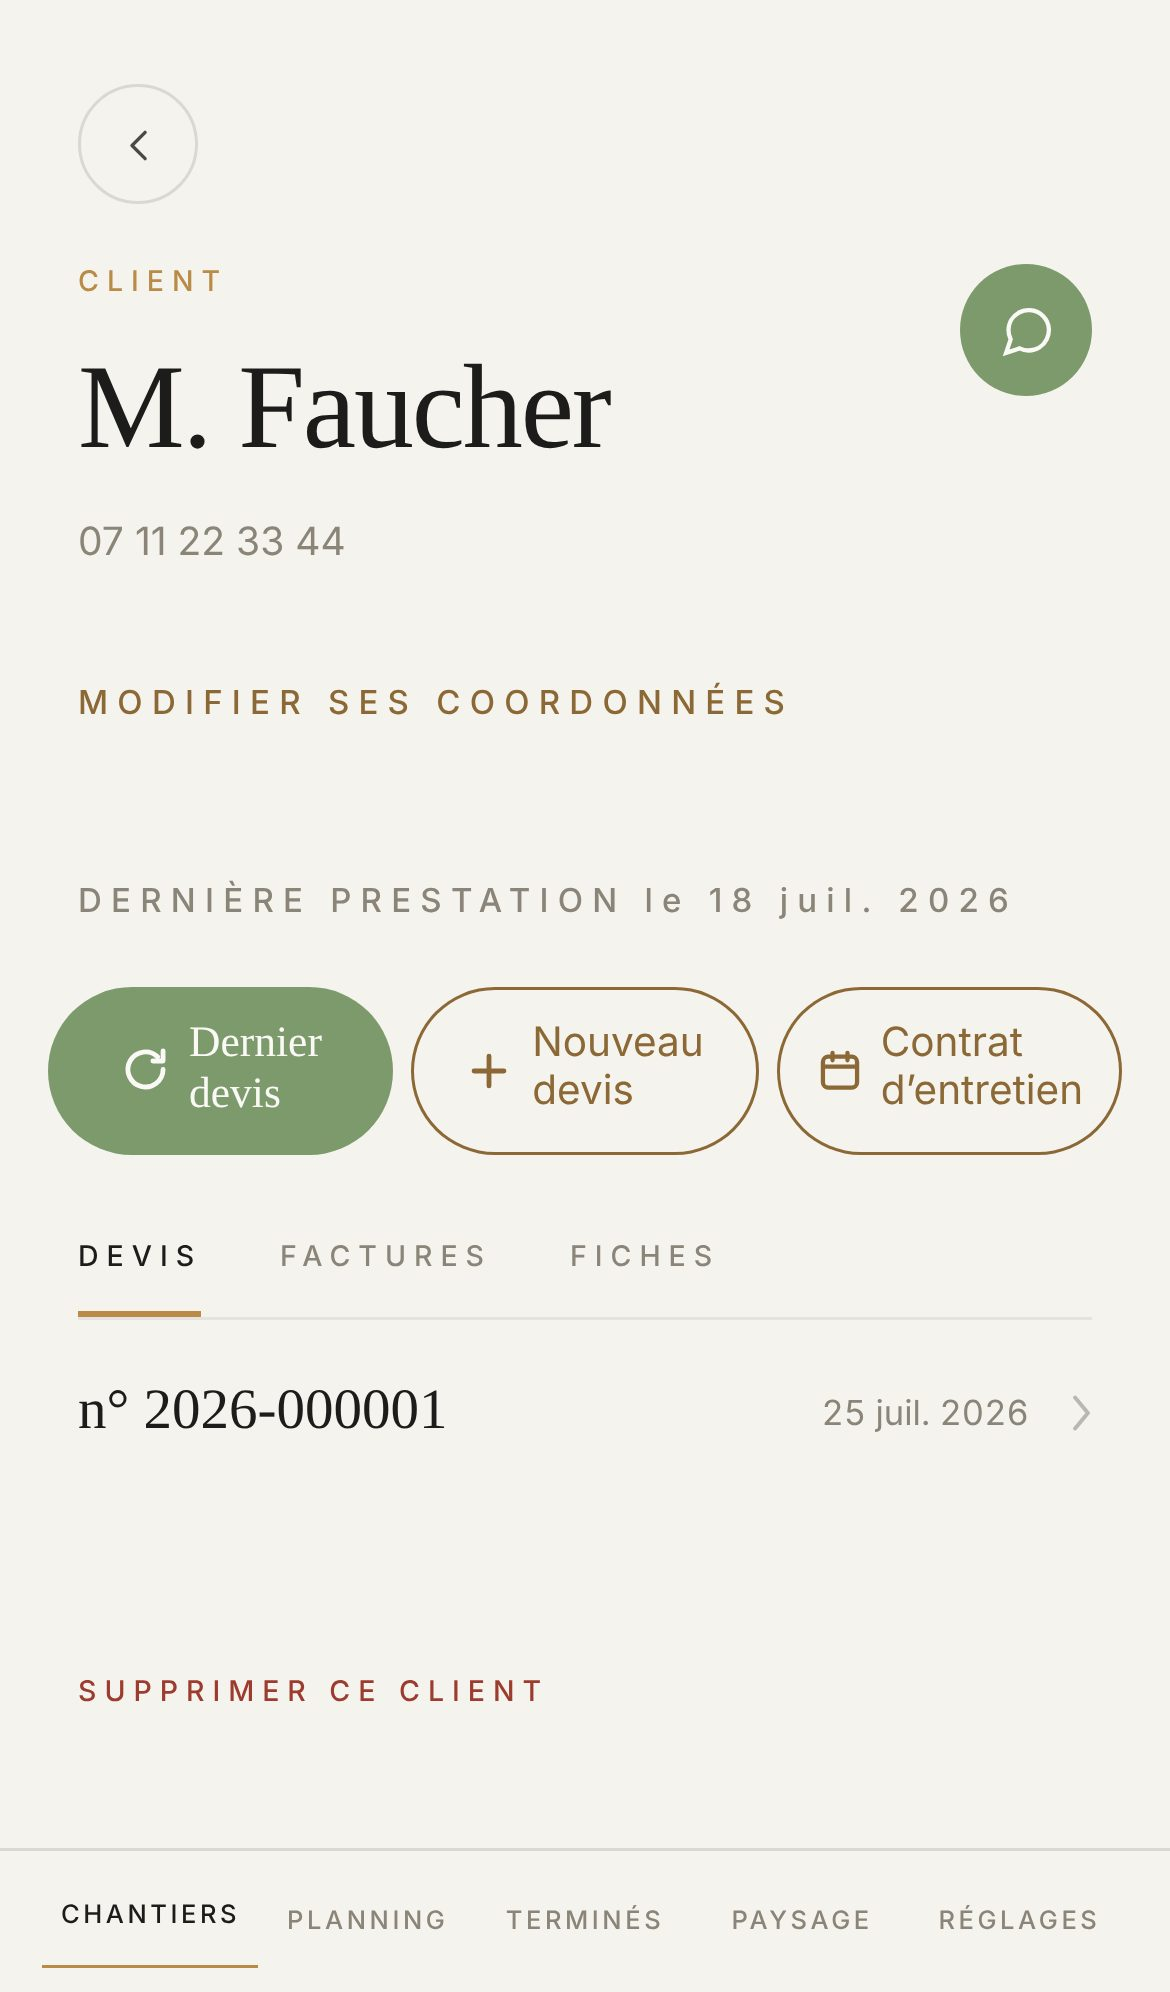
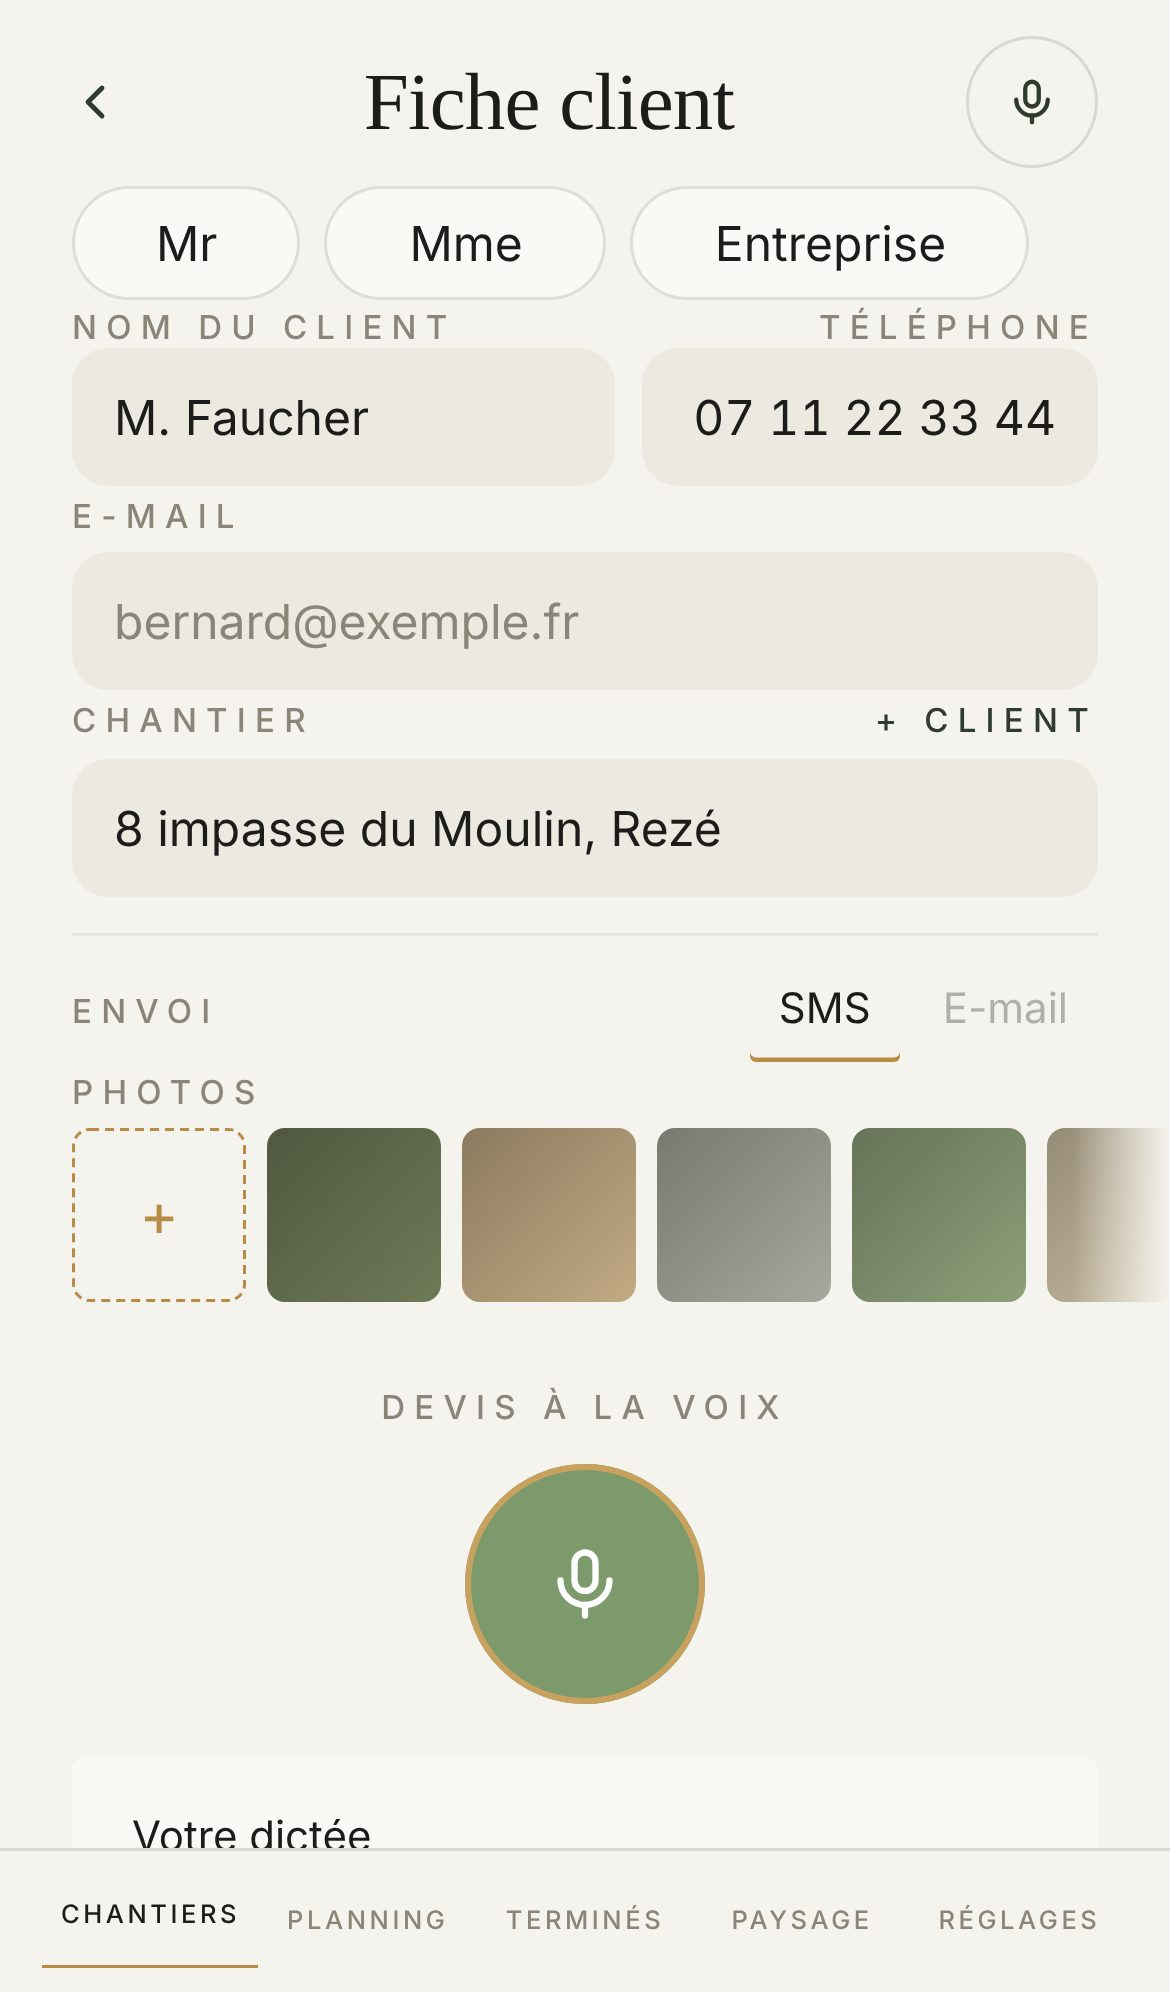
Montrer sur la planche la vraie fiche client et la vraie dictée
Il a désigné l'écran « Fiche client » d'un chantier, celui qui porte
« Devis à la voix », et non la fiche du client. La planche le prend, et
la dictée s'allume désormais sur ce même écran, micro appuyé pour de vrai
dans le navigateur : le micro dessiné par-dessus est retiré, l'écran de
transcription aussi, puisque son récit passe directement de la voix au
devis.

Claude-Session: https://claude.ai/code/session_01NQoyfwDaCHL2WnQ4DJVN7i

diff --git a/appli/vente/defilement.html b/appli/vente/defilement.html
@@ -19,8 +19,12 @@
   Pas la page Outils.
 
   Toutes les images sont des captures d'Atlas (dossier images/, partagé avec
-  index.html). Trois sont nouvelles, prises le 8 octobre sur un jeu d'essai :
-  fiche-client.jpg, salaries.jpg, facture.jpg.
+  index.html). Quatre sont nouvelles, prises le 8 octobre sur un jeu d'essai :
+  fiche-client.jpg (l'écran « Fiche client » d'un chantier, celui qu'il a
+  désigné, avec « Devis à la voix »), dictee-en-cours.jpg (le même écran pendant
+  l'enregistrement, micro appuyé pour de vrai), salaries.jpg, facture.jpg.
+  Les anneaux qui battent autour d'un bouton sont les seuls traits dessinés
+  par-dessus une capture : ils montrent où l'on appuie.
 
   La phrase dictée est celle de la capture de la dictée (la haie de thuyas sur
   douze mètres), pour que la ligne du devis qui suit soit bien celle qu'on a
@@ -92,14 +96,10 @@ h1,h2{font-family:var(--display);font-weight:400;line-height:1.02;letter-spacing
 .pouls{position:absolute;border-radius:999px;pointer-events:none;opacity:0;transform:translateZ(1px)}
 .pouls::before,.pouls::after{content:"";position:absolute;inset:-4px;border-radius:inherit;border:2px solid var(--or);animation:pouls 1.4s ease-out infinite}
 .pouls::after{animation-delay:.7s}
+.pouls.rond::before,.pouls.rond::after{animation-name:pouls-rond}
+@keyframes pouls-rond{from{transform:scale(1);opacity:.9}to{transform:scale(1.6);opacity:0}}
 @keyframes pouls{from{transform:scale(1);opacity:.9}to{transform:scale(1.35,1.9);opacity:0}}
 
-/* La dictée : le micro s'allume sous la page. */
-.micro{position:absolute;left:50%;bottom:-34px;width:68px;height:68px;margin-left:-34px;border-radius:50%;background:var(--sauge);color:#fff;display:grid;place-items:center;opacity:0;transform:scale(.6);z-index:4;box-shadow:0 10px 30px -8px rgba(var(--ombre),.5)}
-.micro svg{width:28px;height:28px}
-.micro::before,.micro::after{content:"";position:absolute;inset:0;border-radius:50%;background:var(--sauge);opacity:.35;animation:onde 1.6s ease-out infinite;z-index:-1}
-.micro::after{animation-delay:.8s}
-@keyframes onde{from{transform:scale(1);opacity:.45}to{transform:scale(2.3);opacity:0}}
 
 .phrase{position:absolute;top:44%;left:0;z-index:6;white-space:nowrap;font:italic 400 clamp(40px,10vw,92px)/1 var(--display);color:var(--encre);pointer-events:none;opacity:0;text-shadow:0 0 24px var(--fond),0 0 48px var(--fond),0 0 2px var(--fond);will-change:transform}
 
@@ -143,9 +143,6 @@ h1,h2{font-family:var(--display);font-weight:400;line-height:1.02;letter-spacing
     <div class="plateau" id="plateau">
       <div class="feuille" id="dessous"></div>
       <div class="feuille" id="dessus"></div>
-      <div class="micro" id="micro" aria-hidden="true">
-        <svg viewBox="0 0 24 24" fill="none" stroke="currentColor" stroke-width="2" stroke-linecap="round"><rect x="9" y="3" width="6" height="11" rx="3"/><path d="M5 11a7 7 0 0 0 14 0M12 18v3"/></svg>
-      </div>
     </div>
     <div class="phrase" id="phrase" aria-hidden="true">« On arrache l'ancienne haie de thuyas sur douze mètres. »</div>
     <div class="legende" id="legende" aria-live="polite"><span></span><p></p></div>
@@ -163,7 +160,8 @@ h1,h2{font-family:var(--display);font-weight:400;line-height:1.02;letter-spacing
 <script>
 (function(){
   var IMG = {
-    chantiers:"images/chantiers.jpg", client:"images/fiche-client.jpg", dictee:"images/dictee.jpg",
+    chantiers:"images/chantiers.jpg", client:"images/fiche-client.jpg",
+    dictee:"images/dictee-en-cours.jpg",
     lignes:"images/devis-lignes.jpg", total:"images/devis-total.jpg", accepte:"images/client-devis.jpg",
     planning:"images/planning.jpg", salaries:"images/salaries.jpg", termines:"images/termines.jpg",
     facture:"images/facture.jpg", tva:"images/tva.jpg"
@@ -172,8 +170,8 @@ h1,h2{font-family:var(--display);font-weight:400;line-height:1.02;letter-spacing
   // Ce qu'on lit sous la page, et l'heure de la journée racontée.
   var ETAPES = [
     {u:0,    mot:"Chantier", txt:"Vos chantiers du jour, au même endroit.", heure:"7 h 30", jour:"Mardi matin", img:"chantiers"},
-    {u:2.6,  mot:"Client",   txt:"Le client et ses devis, en un geste.",     heure:"7 h 31", jour:"Mardi matin", img:"client"},
-    {u:4.7,  mot:"Dictée",   txt:"Vous dites ce qu'il y a à faire.",         heure:"7 h 32", jour:"Mardi matin", img:"dictee"},
+    {u:2.6,  mot:"Client",   txt:"Le client, l'adresse du chantier, les photos.",     heure:"7 h 31", jour:"Mardi matin", img:"client"},
+    {u:4.6,  mot:"Dictée",   txt:"Vous dites ce qu'il y a à faire.",         heure:"7 h 32", jour:"Mardi matin", img:"dictee"},
     {u:7.8,  mot:"Devis",    txt:"Le devis est déjà écrit.",                 heure:"7 h 34", jour:"Mardi matin", img:"lignes"},
     {u:11.1, mot:"Accord",   txt:"Le client accepte depuis son téléphone.",  heure:"9 h 12", jour:"Mardi matin", img:"accepte"},
     {u:13.3, mot:"Planning", txt:"Le chantier se pose au planning.",          heure:"9 h 13", jour:"Mardi matin", img:"planning"},
@@ -243,6 +241,7 @@ h1,h2{font-family:var(--display);font-weight:400;line-height:1.02;letter-spacing
       f.pouls.style.left = p.x + "%"; f.pouls.style.top = p.y + "%";
       f.pouls.style.width = p.l + "%"; f.pouls.style.height = p.h + "%";
       f.pouls.style.opacity = p.v;
+      f.pouls.classList.toggle("rond", !!p.rond);
     } else f.pouls.style.opacity = 0;
   }
 
@@ -264,20 +263,21 @@ h1,h2{font-family:var(--display);font-weight:400;line-height:1.02;letter-spacing
     return {f:1, s:0.45 - 0.3 * v, rz:8 + 22 * v, x:W * 1.2 * v, y:-H * 0.9 * v, o:1 - v};
   }
 
+  var POULS_MICRO = {x:39.75, y:73.5, l:20.5, h:12, rond:true};
   var POULS_ACCORD = {x:4, y:65.5, l:92, h:8};
   var POULS_FACTURER = {x:62, y:61.5, l:32, h:7.5};
   var U = 24;
 
   function etat(u){
-    var a = null, b = null, micro = 0, phrase = -1;
+    var a = null, b = null, phrase = -1;
     if (u < 1){
       var k = lisse(u);
       a = {img:"chantiers", y:H * 0.35 * (1 - k), rx:22 * (1 - k), s:0.9 + 0.1 * k, o:k};
     }
     else if (u < 1.8) a = {img:"chantiers"};
     else if (u < 3.4) a = journal("chantiers", "client", (u - 1.8) / 1.6);
-    else if (u < 4.2) a = {img:"client"};
-    else if (u < 5.2){ var t = (u - 4.2); b = {img:"dictee", s:0.96 + 0.04 * t}; a = Object.assign({img:"client"}, tourner(t)); }
+    else if (u < 4.4) a = {img:"client", pouls:Object.assign({v:entre(u, 3.7, 3.9) * (1 - entre(u, 4.25, 4.4))}, POULS_MICRO)};
+    else if (u < 4.8){ var tm = lisse((u - 4.4) / 0.4); a = {img:"client", o:1 - tm}; b = {img:"dictee"}; }
     else if (u < 7.2){ a = {img:"dictee"}; }
     else if (u < 8.4){
       if (u < 7.7){ var c = lisse((u - 7.2) / 0.5); a = {img:"dictee", f:c, s:1 - 0.45 * c, o:1 - c * 0.6}; }
@@ -309,13 +309,11 @@ h1,h2{font-family:var(--display);font-weight:400;line-height:1.02;letter-spacing
     else if (u < 22.6) a = journal("facture", "tva", (u - 21.0) / 1.6);
     else { var fin = entre(u, 23.2, 24); a = {img:"tva", s:1 - 0.06 * fin, y:-H * 0.05 * fin, o:1 - fin * 0.5}; }
 
-    if (u > 5.0 && u < 7.6) micro = entre(u, 5.0, 5.5) * (1 - entre(u, 7.1, 7.6));
-    if (u > 5.6 && u < 7.6) phrase = (u - 5.6) / 2.0;
-    return {a:a, b:b, micro:micro, phrase:phrase};
+    if (u > 5.0 && u < 7.2) phrase = (u - 5.0) / 2.2;
+    return {a:a, b:b, phrase:phrase};
   }
 
   var recit = document.getElementById("recit");
-  var micro = document.getElementById("micro");
   var phrase = document.getElementById("phrase");
   var legende = document.getElementById("legende");
   var heure = document.getElementById("heure"), jour = document.getElementById("jour"), fil = document.getElementById("fil");
@@ -329,8 +327,6 @@ h1,h2{font-family:var(--display);font-weight:400;line-height:1.02;letter-spacing
     var e = etat(u);
     poser(A, e.a); poser(B, e.b);
     A.el.style.zIndex = 2; B.el.style.zIndex = 1;
-    micro.style.opacity = e.micro;
-    micro.style.transform = "scale(" + (0.6 + 0.4 * e.micro) + ")";
     if (e.phrase >= 0 && e.phrase <= 1){
       pw = pw || phrase.offsetWidth;
       var x = window.innerWidth - (window.innerWidth + pw) * e.phrase;

diff --git a/CHANGELOG.md b/CHANGELOG.md
@@ -20,8 +20,12 @@ planning, équipe, facture, TVA). Rien n'est codé dans l'application.
   thuyas sur douze mètres) : le devis qui suit en reprend la ligne.
 - L'heure affichée raconte une journée et ne mesure rien : aucun temps gagné
   n'a été relevé, donc aucun chiffre n'est écrit.
-- Trois captures nouvelles, prises sur un jeu d'essai : `fiche-client.jpg`,
-  `salaries.jpg`, `facture.jpg`. La capture de la TVA montre encore 0,00 € :
+- Quatre captures nouvelles, prises sur un jeu d'essai : `fiche-client.jpg`
+  (l'écran « Fiche client » d'un chantier, avec « Devis à la voix », celui
+  qu'il a désigné), `dictee-en-cours.jpg` (le même écran pendant
+  l'enregistrement, micro appuyé pour de vrai), `salaries.jpg`, `facture.jpg`.
+  Le micro dessiné de la première version est retiré : seuls restent les
+  anneaux qui montrent où l'on appuie. La capture de la TVA montre encore 0,00 € :
   à refaire avec des montants avant tout site public.
 
 ### Un devis expiré n'est plus un chantier vendu : il se range à part, et revient par sa porte
